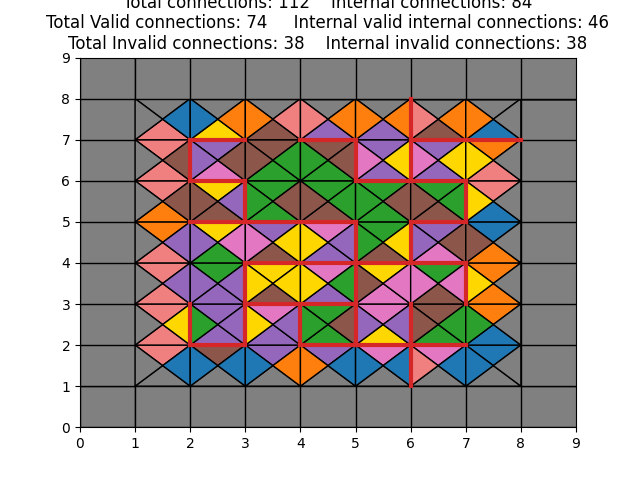
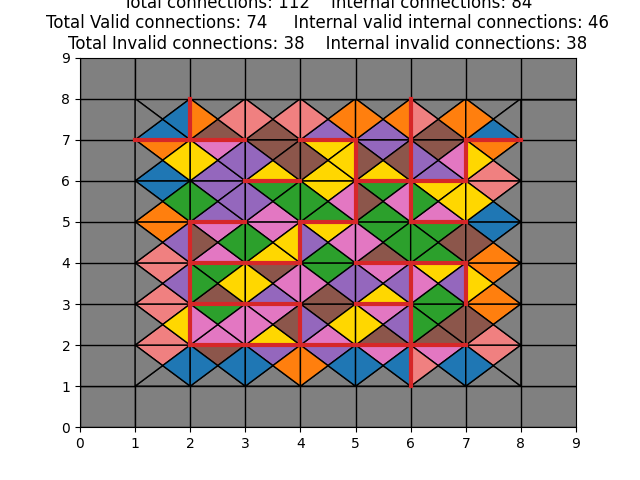
fixed bug on odd size instances

Changed region(s): [[0.2188, 0.1875, 0.8125, 0.7812]]

diff --git a/Projet/code/utils/utils.py b/Projet/code/utils/utils.py
@@ -20,10 +20,11 @@ CORNER = "corner"
 EDGE = "edge"
 INNER = "inner"
 
+
 # Save a visualisation
 def visualize(e: EternityPuzzle, solution, name="visualisation"):
     e.display_solution(solution, name)
-    pyplot.close() # Free memory if a lot of write visualize is done
+    pyplot.close()  # Free memory if a lot of write visualize is done
 
 
 def piece_type(piece):
@@ -72,7 +73,7 @@ def get_conflict_positions(e, solution, return_nb_conflict=False):
                 n_conflit[k] += 1
 
     positions = list(set(positions))
-    
+
     if return_nb_conflict:
         return positions, n_conflit
 
@@ -249,9 +250,10 @@ def generate_random_inner_solution(e: EternityPuzzle, border):
     random.shuffle(inner_pieces)
 
     for i, position in enumerate(inner_ids):
-        solution[position] = inner_pieces[i]
+        solution[position] = random.choice(e.generate_rotation(inner_pieces[i]))
 
     return solution
+
 
 # Function to flatten a grid into a list
 def grid_to_list(grid):
@@ -265,40 +267,59 @@ def list_to_grid(e: EternityPuzzle, liste):
         grid.append(liste[i * e.board_size : i * e.board_size + e.board_size])
     return grid
 
-#? """ LNS AND VNS Utils """
+
+# ? """ LNS AND VNS Utils """
 
 
 def find_best_fit(e: EternityPuzzle, solution, idx, piece):
-    piece_best_fit = sorted([(rotated_piece, get_number_conflict(e, solution, idx, rotated_piece)) for rotated_piece in e.generate_rotation(piece)], key=lambda x: x[1])
+    piece_best_fit = sorted(
+        [
+            (rotated_piece, get_number_conflict(e, solution, idx, rotated_piece))
+            for rotated_piece in e.generate_rotation(piece)
+        ],
+        key=lambda x: x[1],
+    )
     return piece_best_fit[0]
 
 
 def get_number_conflict(e: EternityPuzzle, solution, idx, piece):
-    """ Swipe with side not supported """
+    """Swipe with side not supported"""
     idx_north, idx_east, idx_south, idx_west = get_adjacent_idx(e, idx)
     nb_conflict = 0
-    if piece[WEST]  != solution[idx_west][EAST] and solution[idx_west][EAST] != BLACK:
+    if piece[WEST] != solution[idx_west][EAST] and solution[idx_west][EAST] != BLACK:
         nb_conflict += 1
-    if piece[NORTH] != solution[idx_north][SOUTH] and solution[idx_north][SOUTH] != BLACK:
+    if (
+        piece[NORTH] != solution[idx_north][SOUTH]
+        and solution[idx_north][SOUTH] != BLACK
+    ):
         nb_conflict += 1
-    if piece[EAST]  != solution[idx_east][WEST] and solution[idx_east][WEST] != BLACK:
+    if piece[EAST] != solution[idx_east][WEST] and solution[idx_east][WEST] != BLACK:
         nb_conflict += 1
-    if piece[SOUTH] != solution[idx_south][NORTH] and solution[idx_south][NORTH] != BLACK:
+    if (
+        piece[SOUTH] != solution[idx_south][NORTH]
+        and solution[idx_south][NORTH] != BLACK
+    ):
         nb_conflict += 1
     return nb_conflict
 
 
 def get_adjacent_idx(e: EternityPuzzle, idx):
-    i , j = idx % e.board_size, idx // e.board_size
-    idx_south =  e.board_size * (j - 1) + i
-    idx_north =  e.board_size * (j + 1) + i
-    idx_east =   e.board_size * j + (i - 1)
-    idx_west =   e.board_size * j + (i + 1)
+    i, j = idx % e.board_size, idx // e.board_size
+    idx_south = e.board_size * (j - 1) + i
+    idx_north = e.board_size * (j + 1) + i
+    idx_east = e.board_size * j + (i - 1)
+    idx_west = e.board_size * j + (i + 1)
     return idx_north, idx_east, idx_south, idx_west
 
 
-def gloton_place_removed_pieces(e: EternityPuzzle, destroyed_solution, removed_pieces, holes_idx, debug_visualization=False):
-    """ O(len(removed_pieces)!) """
+def gloton_place_removed_pieces(
+    e: EternityPuzzle,
+    destroyed_solution,
+    removed_pieces,
+    holes_idx,
+    debug_visualization=False,
+):
+    """O(len(removed_pieces)!)"""
 
     assert len(removed_pieces) == len(holes_idx)
 
@@ -311,7 +332,9 @@ def gloton_place_removed_pieces(e: EternityPuzzle, destroyed_solution, removed_p
         # Try to fill the hole
         hole_idx = holes_idx[i]
         for j, removed_piece in enumerate(removed_pieces):
-            best_fit, number_of_conflit = find_best_fit(e, destroyed_solution, hole_idx, removed_piece) 
+            best_fit, number_of_conflit = find_best_fit(
+                e, destroyed_solution, hole_idx, removed_piece
+            )
 
             # Copy Args
             rebuild_solution = copy.deepcopy(destroyed_solution)
@@ -322,12 +345,17 @@ def gloton_place_removed_pieces(e: EternityPuzzle, destroyed_solution, removed_p
             del rebuild_holes_idx[i]
 
             # Fill next hole
-            rebuild_solution = gloton_place_removed_pieces(e, rebuild_solution, rebuild_removed_pieces, rebuild_holes_idx)
+            rebuild_solution = gloton_place_removed_pieces(
+                e, rebuild_solution, rebuild_removed_pieces, rebuild_holes_idx
+            )
             solution_found.append(rebuild_solution)
 
         i += 1
 
-    sorted_solution = sorted([(solution, e.get_total_n_conflict(solution)) for solution in solution_found], key=lambda x: x[1])
+    sorted_solution = sorted(
+        [(solution, e.get_total_n_conflict(solution)) for solution in solution_found],
+        key=lambda x: x[1],
+    )
     best_solution = sorted_solution[0][0]
 
     return best_solution

diff --git a/Projet/code/solver_genetic.py b/Projet/code/solver_genetic.py
@@ -1,22 +1,17 @@
+from utils.utils import *
+from typing import Dict
+import networkx as nx
 import numpy as np
 from copy import deepcopy
 import time
 import random
-
-from tqdm import tqdm
-from solver_heuristic import solve_heuristic
-from utils.utils import *
-from math import inf
-from typing import Dict
-import time
-import random
-import numpy as np
-import networkx as nx
-from math import inf
-import solver_heuristic_layer
-import solver_local_search
 import os
 import json
+from math import inf
+from tqdm import tqdm
+import solver_heuristic
+import solver_heuristic_layer
+import solver_local_search
 
 
 file_names = {"A": 16, "B": 49, "C": 64, "D": 81, "E": 100, "complet": 256}
@@ -29,13 +24,14 @@ def solve_advanced(e: EternityPuzzle):
     :return: a tuple (solution, cost) where solution is a list of the pieces (rotations applied) and
         cost is the cost of the solution
     """
-    if os.path.exists("heuristic_solution.json"):
-        os.remove("heuristic_solution.json")
+
+    if os.path.exists(f"heuristic_solution_{e.board_size}.json"):
+        os.remove(f"heuristic_solution_{e.board_size}.json")
 
     random.seed(1234)
 
     # Solve the border
-    border_time = 60
+    border_time = 1
     pop_size = 20
     mutation_rate = 0
     tournament_size = 10
@@ -58,16 +54,16 @@ def solve_advanced(e: EternityPuzzle):
     visualize(e, border, "Border")
 
     # Solve the inner puzzle
-    time_limit = 20 * 60  # 20 * 60
+    time_limit = 10  # 20 * 60
 
     pop_size = 100
     mutation_rate = 0.01
     tournament_size = 100
     tournament_accepted = 30
-    max_time_local_search = 10
+    max_time_local_search = 3
     num_generations = 1000
     no_progress_generations = 10
-    elite_size = 1
+    elite_size = 0
 
     return genetic_algorithm(
         e,
@@ -220,7 +216,6 @@ def generate_population(e: EternityPuzzle, pop_size, elite_size, border=None):
             population.append(border)
         for _ in range(pop_size):
             population.append(generate_random_inner_solution(e, border))
-        
 
     else:
         for _ in range(elite_size):
@@ -231,9 +226,8 @@ def generate_population(e: EternityPuzzle, pop_size, elite_size, border=None):
     return population
 
 
-# 2-Swap with rotations on conflict pieces
+# 2-Swap with rotations
 def inner_crossover(e: EternityPuzzle, parent):
-    # 2-Swap with random rotations
     child = parent.copy()
 
     inner_idx = [
@@ -253,7 +247,8 @@ def inner_crossover(e: EternityPuzzle, parent):
             ), random.choice(e.generate_rotation(parent[i]))
 
     # 2-Swap with random pieces
-    for i in inner_idx:
+    random.shuffle(inner_idx)
+    for i in inner_idx[: len(inner_idx) // 4]:
         j = random.choice(inner_idx)
         child[i], child[j] = random.choice(
             e.generate_rotation(parent[j])
@@ -355,7 +350,7 @@ def genetic_algorithm_border(
     tournament_accepted,
     pop_size,
     time_limit,
-    debug_visualization=False
+    debug_visualization=False,
 ):
     start_time = time.time()
     tic = start_time
@@ -366,8 +361,6 @@ def genetic_algorithm_border(
 
     print(f"  [INFO] Solving border ...")
     with tqdm(total=time_limit) as progress_bar:
-    
-
         while not time_over:
             # Generate the initial population
             population = generate_population(e, pop_size, elite_size)
@@ -452,7 +445,7 @@ def get_heuristic_solution(e: EternityPuzzle):
             solution = [tuple(sublst) for sublst in solution]
 
     else:
-        solution = solve_heuristic(e)[0]
+        solution = solver_heuristic_layer.solve_heuristic(e)[0]
         with open(f"heuristic_solution_{e.board_size}.json", "w") as f:
             json.dump(solution, f)
 

diff --git a/Projet/code/solver_advanced.py b/Projet/code/solver_advanced.py
@@ -14,6 +14,6 @@ def solve_advanced(e):
     :return: a tuple (solution, cost) where solution is a list of the pieces (rotations applied) and
         cost is the cost of the solution
     """
-    solution = solver_heuristic_layer.solve_heuristic(e)[0]
-    return solver_lns.lns(e,solution,search_time=20*60)
+    # solution = solver_heuristic_layer.solve_heuristic(e)[0]
+    # return solver_lns.lns(e,solution,search_time=20*60)
     return solver_genetic.solve_advanced(e)

diff --git a/Projet/code/solver_heuristic_layer.py b/Projet/code/solver_heuristic_layer.py
@@ -75,7 +75,7 @@ def solve_heuristic(e: EternityPuzzle):
             if len(edges) > 0:
                 edges.remove(best_piece)
 
-        for layer in range(1, ((e.board_size) // 2)):
+        for layer in range(1, ((e.board_size +1) // 2)):
             layer_idx = get_layer_positions(e, layer)
             for position in layer_idx:
                 best_cost = math.inf
